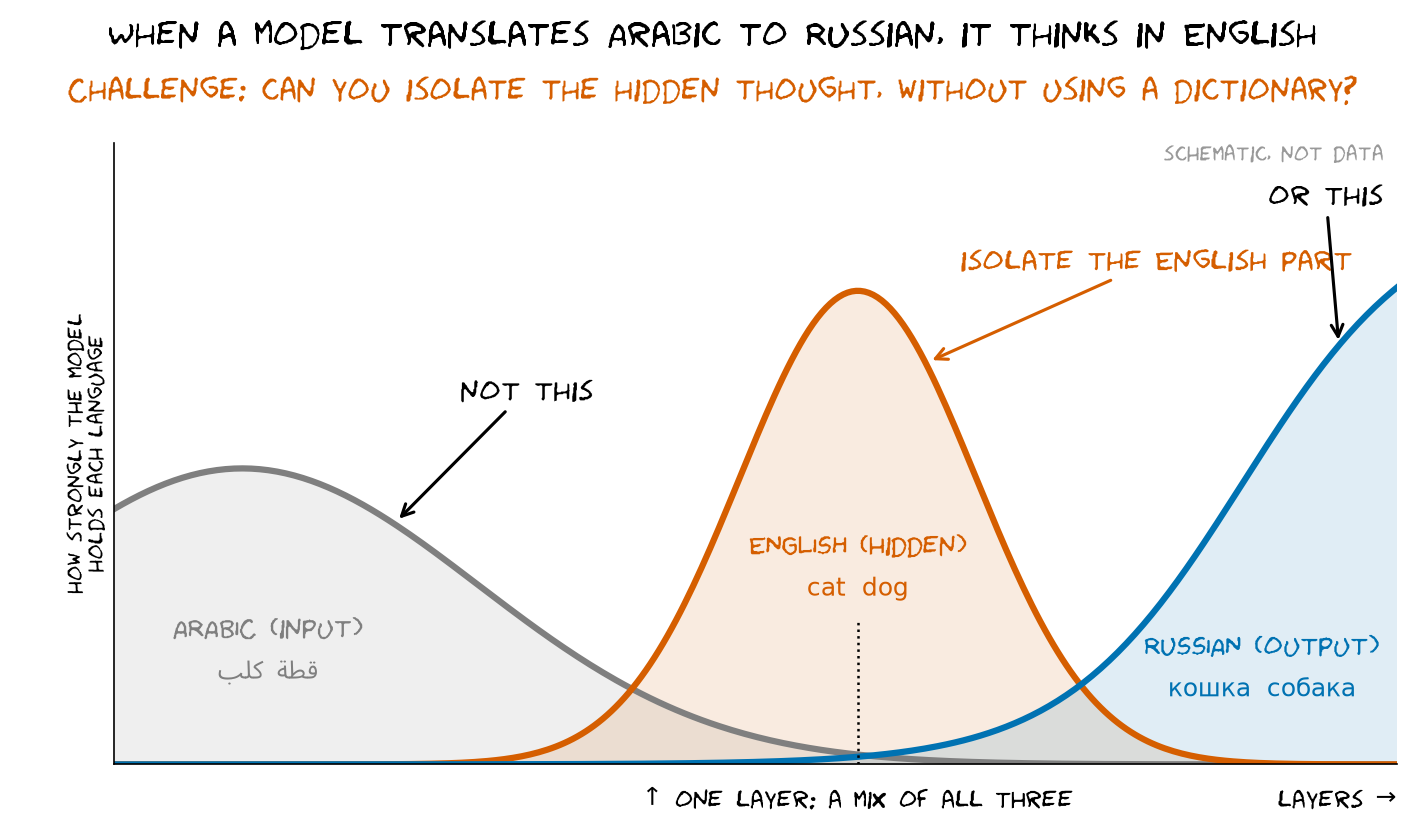
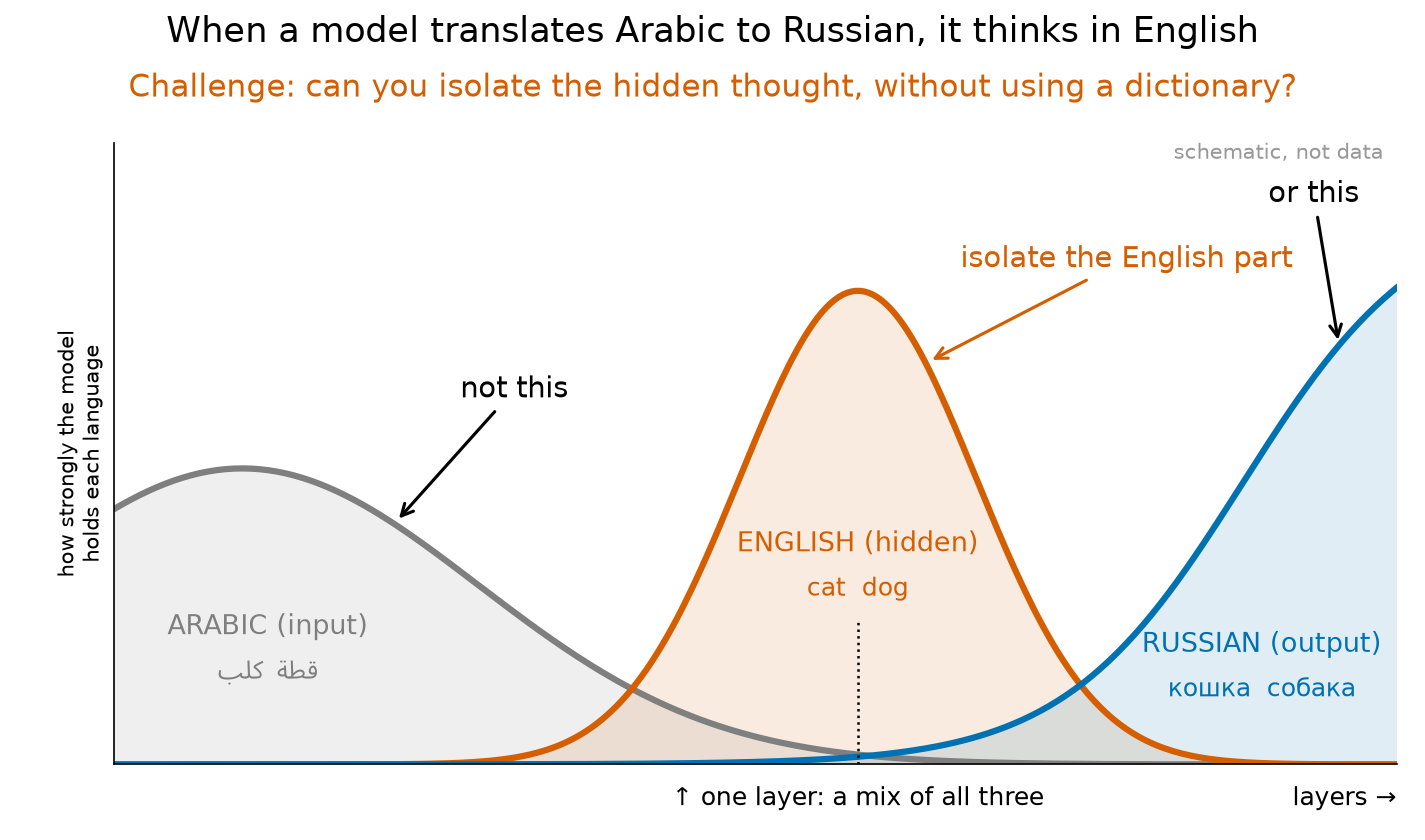
README cut to 2 visible figures (cartoon, scoring); full tables, reference methods, per-layer figure moved to docs/leaderboard.md; Llamas background collapsed; cartoon in a plain font
PI/OpenAI

diff --git a/scripts/challenge/plot_cartoon.py b/scripts/challenge/plot_cartoon.py
@@ -1,6 +1,6 @@
 """Cartoon for the README: input, hidden English and output across layers. Not data. Writes figs/cartoon.png.
 
-Usage: uv run --with matplotlib scripts/challenge/plot_cartoon.py (fonts: Humor Sans, Noto Sans Arabic) — PI/OpenAI
+Usage: uv run --with matplotlib scripts/challenge/plot_cartoon.py (font: Noto Sans Arabic) — PI/OpenAI
 """
 from pathlib import Path
 
@@ -11,7 +11,7 @@ import matplotlib.pyplot as plt
 import numpy as np
 
 ROOT = Path(__file__).resolve().parents[2]
-plt.rcParams["font.family"] = ["Humor Sans", "DejaVu Sans"]  # hand-drawn font; DejaVu for Cyrillic
+plt.rcParams["font.family"] = ["DejaVu Sans"]  # plain font, easy to read
 np.random.seed(0)
 
 GREY, ORANGE, BLUE = "#7f7f7f", "#d55e00", "#0072b2"
@@ -56,4 +56,4 @@ ax.set_ylabel("how strongly the model\nholds each language")
 ax.set(xlim=(0, 1), ylim=(0, 1.05), xticks=[], yticks=[])
 ax.spines[["top", "right"]].set_visible(False)
 (ROOT / "figs").mkdir(exist_ok=True)
-fig.savefig(ROOT / "figs/cartoon.png", dpi=150)  # PNG: the hand-drawn font makes a large SVG
+fig.savefig(ROOT / "figs/cartoon.png", dpi=150)

diff --git a/README.md b/README.md
@@ -14,11 +14,7 @@ There is a delightful finding from the paper ["Do Llamas Work in English?"](http
 
 This is our way in. If a model translating Arabic to Hindi reliably activates English words in its hidden states, we have a target to aim at.
 
-<img width="1448" height="1086" alt="Cartoon titled 'How can we find a model's hidden thoughts?', subtitle 'Models can think in English even when translating from French to Chinese.' A French speaker asks a robot 'Peux-tu traduire ceci en chinois ?'. The robot thinks 'Okay — first I understand it in English.' and says to a Chinese speaker '好的，我来翻译成中文。'. Labels: French (input), Model, Chinese (output). Lower panel: a magnifying glass over the robot's head shows English words (understand, translate, answer). Text: 'Knowing that we are looking for English, we can search for general transforms that isolate it.'" src="https://github.com/user-attachments/assets/73da1994-7dd6-41f4-af6b-166a40f3f115" />
-
-<img width="480" alt="Line plot from Wendler et al. (2024), Figure 2: Llama-2-70B translating into Chinese. x-axis: layer 0 to 80; y-axis: logit-lens probability 0 to 1. The English word (orange) is near zero until layer 40, rises to about 0.4 by layer 50, stays there, then falls to zero by layer 80. The Chinese answer (blue) stays near zero until layer 60 and rises to about 0.5 at layer 80. A colour bar on top shows entropy falling from high to low around layer 45." src="https://arxiv.org/html/2402.10588v4/70b_zh_probas_ent.png" />
-
-*Llama-2-70B translating into Chinese ([Wendler et al. 2024](https://arxiv.org/html/2402.10588v4), Fig. 2): the English word (orange) rises mid-network, then falls as the Chinese answer (blue) rises.*
+<details><summary>Background: the "Do Llamas Work in English?" plot</summary>
 
 I was searching for a way to test whether [Wes Gurnee's](https://x.com/wesg52)
 ["suppression neurons"](https://arxiv.org/abs/2401.12181) can be found in the residual
@@ -26,6 +22,14 @@ stream.
 
 For the test, I tried to isolate the suppressed English from the output language in the
 ["Do Llamas Work in English?"](https://arxiv.org/abs/2402.10588) plot.
+
+<img width="480" alt="Line plot from Wendler et al. (2024), Figure 2: Llama-2-70B translating into Chinese. x-axis: layer 0 to 80; y-axis: logit-lens probability 0 to 1. The English word (orange) is near zero until layer 40, rises to about 0.4 by layer 50, stays there, then falls to zero by layer 80. The Chinese answer (blue) stays near zero until layer 60 and rises to about 0.5 at layer 80. A colour bar on top shows entropy falling from high to low around layer 45." src="https://arxiv.org/html/2402.10588v4/70b_zh_probas_ent.png" />
+
+*Llama-2-70B translating into Chinese ([Wendler et al. 2024](https://arxiv.org/html/2402.10588v4), Fig. 2): the English word (orange) rises mid-network, then falls as the Chinese answer (blue) rises.*
+
+<img width="1448" height="1086" alt="Cartoon titled 'How can we find a model's hidden thoughts?', subtitle 'Models can think in English even when translating from French to Chinese.' A French speaker asks a robot 'Peux-tu traduire ceci en chinois ?'. The robot thinks 'Okay — first I understand it in English.' and says to a Chinese speaker '好的，我来翻译成中文。'. Labels: French (input), Model, Chinese (output). Lower panel: a magnifying glass over the robot's head shows English words (understand, translate, answer). Text: 'Knowing that we are looking for English, we can search for general transforms that isolate it.'" src="https://github.com/user-attachments/assets/73da1994-7dd6-41f4-af6b-166a40f3f115" />
+
+</details>
 
 ## The rule: no cheating
 
@@ -44,73 +48,20 @@ transform best isolates the hidden English.
 | [minus this prompt's early and output states](scripts/challenge/transforms.py#L253)             | **0.92** | 0.89–0.94 | +0.07 (+0.04 to +0.10) |     0.93 |     0.09 |               0.00 | nothing     |
 | [layer-change PCA](scripts/challenge/transforms.py#L164)                                        |     0.91 | 0.88–0.93 | +0.06 (+0.03 to +0.09) | **0.95** |     0.14 |               0.00 | WikiText    |
 | [net-change PCA (AntiPaSTO without the output-head step)](scripts/challenge/transforms.py#L189) |     0.90 | 0.87–0.92 | +0.05 (+0.02 to +0.08) |     0.93 |     0.14 |               0.00 | WikiText    |
-| [layer-change PCs gated by attention](scripts/challenge/transforms.py#L272)                     |     0.89 | 0.86–0.92 | +0.04 (+0.00 to +0.07) |     0.87 |     0.09 |               0.00 | WikiText    |
-| [minus output-layer PCA](scripts/challenge/transforms.py#L199)                                  |     0.87 | 0.84–0.90 | +0.02 (-0.01 to +0.05) |     0.91 |     0.19 |               0.00 | WikiText    |
 | *[identity (logit lens)](scripts/challenge/transforms.py#L139)*                                 |     0.87 | 0.84–0.90 | +0.02 (-0.01 to +0.05) |     0.93 |     0.22 |               0.03 | nothing     |
-| [signed rise-fall coupling](scripts/challenge/transforms.py#L243)                               |     0.85 | 0.82–0.88 | +0.00 (-0.03 to +0.03) |     0.90 |     0.22 |               0.00 | WikiText    |
 | *[random subspace (control)](scripts/challenge/transforms.py#L159)*                             |     0.85 | 0.82–0.88 |                        |     0.89 |     0.21 |               0.00 | random seed |
-| [signed rise-fall coupling, shuffled (control)](scripts/challenge/transforms.py#L248)           |     0.83 | 0.80–0.87 | -0.01 (-0.04 to +0.02) |     0.88 |     0.23 |               0.00 | WikiText    |
-| [MLP write minus next MLP read](scripts/challenge/transforms.py#L169)                           |     0.82 | 0.78–0.86 | -0.02 (-0.07 to +0.02) |     0.73 |     0.05 |               0.00 | nothing     |
-| [layer-change PCs gated by rise and fall](scripts/challenge/transforms.py#L262)                 |     0.80 | 0.75–0.84 | -0.05 (-0.09 to -0.00) |     0.71 |     0.07 |               0.00 | WikiText    |
-| [output-unexplained residual (ridge)](scripts/challenge/transforms.py#L280)                     |     0.79 | 0.74–0.83 | -0.06 (-0.11 to -0.01) |     0.72 |     0.11 |           **0.03** | WikiText    |
-| [added then removed](scripts/challenge/transforms.py#L184)                                      |     0.77 | 0.74–0.81 | -0.08 (-0.11 to -0.04) |     0.85 |     0.36 |               0.00 | WikiText    |
-| [variance gone by the output (PCA)](scripts/challenge/transforms.py#L174)                       |     0.71 | 0.66–0.77 | -0.13 (-0.19 to -0.08) |     0.59 |     0.07 |               0.01 | WikiText    |
-| *[input word (control)](scripts/challenge/transforms.py#L154)*                                  |     0.44 | 0.37–0.50 | -0.41 (-0.48 to -0.35) |     0.38 |     0.34 |               0.00 | nothing     |
-| [variance ratio, layer 27 vs output](scripts/challenge/transforms.py#L305)                      |     0.31 | 0.25–0.37 | -0.54 (-0.60 to -0.48) |     0.27 |     0.46 |               0.00 | WikiText    |
-| *[mean WikiText activation (control)](scripts/challenge/transforms.py#L149)*                    |     0.00 | 0.00–0.00 | -0.85 (-0.88 to -0.82) |     0.00 | **0.00** |               0.00 | WikiText    |
 
-Qwen3.5-4B, 149 test prompts (ar→hi, hi→th, th→ru, ko→ar). Each row's layer and rank were chosen on ru→ko only. 90% CI: bootstrap over prompts. Δ vs random: F1 minus the random subspace on the same prompts. English-only F1: 102 two-hop questions (TwoHopFact). [Per-prompt rows](out/2026-10-05_002148_leaderboard/rows.json.gz).
-
-### Reference: methods that use the output head, token scores or the J-lens
-
-| transform                                                                            |      F1↑ |    90% CI |            Δ vs random |     TPR↑ |     FPR↓ |   English-only F1↑ | fitted on        |
-|:-------------------------------------------------------------------------------------|---------:|----------:|-----------------------:|---------:|---------:|-------------------:|:-----------------|
-| [rise-and-fall, J-lens](scripts/challenge/transforms.py#L226)                        | **0.96** | 0.94–0.98 | +0.11 (+0.08 to +0.14) |     0.93 | **0.01** |               0.05 | J-lens           |
-| [calibrated rise-and-fall](scripts/challenge/transforms.py#L286)                     | **0.96** | 0.94–0.98 | +0.11 (+0.08 to +0.14) |     0.93 | **0.01** |               0.00 | WikiText         |
-| [calibrated rise-and-fall, attention-weighted](scripts/challenge/transforms.py#L299) |     0.95 | 0.93–0.98 | +0.11 (+0.08 to +0.13) |     0.92 | **0.01** |               0.00 | WikiText         |
-| [calibrated rise-and-fall, last line](scripts/challenge/transforms.py#L292)          |     0.94 | 0.91–0.96 | +0.09 (+0.06 to +0.12) |     0.90 |     0.02 |               0.00 | WikiText         |
-| [rise-and-fall token span (rank 32), J-lens](scripts/challenge/transforms.py#L237)   |     0.94 | 0.91–0.96 | +0.09 (+0.06 to +0.12) | **0.93** |     0.06 |               0.06 | J-lens           |
-| [J-lens minus output-layer PCA](scripts/challenge/transforms.py#L204)                |     0.89 | 0.87–0.92 | +0.05 (+0.02 to +0.08) |     0.91 |     0.13 |               0.03 | J-lens, WikiText |
-| [layer-23 attention output, J-lens](scripts/challenge/transforms.py#L318)            |     0.89 | 0.86–0.92 | +0.04 (+0.01 to +0.08) |     0.89 |     0.11 |           **0.09** | J-lens           |
-| [AntiPaSTO suppressed subspace](scripts/challenge/transforms.py#L194)                |     0.87 | 0.84–0.90 | +0.02 (-0.01 to +0.06) |     0.87 |     0.12 |               0.00 | WikiText         |
-| [J-lens](scripts/challenge/transforms.py#L144)                                       |     0.85 | 0.81–0.89 | +0.00 (-0.04 to +0.04) |     0.79 |     0.07 |               0.01 | J-lens           |
-| [rise-and-fall token span (rank 32)](scripts/challenge/transforms.py#L231)           |     0.85 | 0.81–0.88 | +0.00 (-0.04 to +0.04) |     0.82 |     0.11 |               0.00 | nothing          |
-| [logit lens minus read and said](scripts/challenge/transforms.py#L310)               |     0.84 | 0.80–0.88 | -0.01 (-0.05 to +0.03) |     0.86 |     0.19 |               0.00 | nothing          |
-| [rise-and-fall](scripts/challenge/transforms.py#L221)                                |     0.83 | 0.78–0.87 | -0.02 (-0.07 to +0.02) |     0.74 |     0.06 |               0.00 | nothing          |
-| [directions the output head reads least](scripts/challenge/transforms.py#L179)       |     0.50 | 0.44–0.55 | -0.35 (-0.41 to -0.29) |     0.55 |     0.66 |               0.00 | nothing          |
-
-### How it is scored
+Qwen3.5-4B, 149 test prompts (ar→hi, hi→th, th→ru, ko→ar). Each row's layer and rank were chosen on ru→ko only. 90% CI: bootstrap over prompts. Δ vs random: F1 minus the random subspace on the same prompts. English-only F1: 102 two-hop questions (TwoHopFact). [Per-prompt rows](out/2026-10-05_002148_leaderboard/rows.json.gz). [Full table, reference methods and per-layer results](docs/leaderboard.md).
 
 <img src="figs/scoring.svg" width="720" alt="Line plot, Qwen3.5-4B, 59 test prompts, logit-lens probability by layer at the last token. The hidden word (English or Chinese, orange) is near zero until layer 23, peaks at a median of 0.72 at layer 28, then falls to zero by layer 32. The output language (blue) stays low until layer 29 and reaches about 1 at layer 32. The input language (grey) stays near zero. A dashed line at layer 28 says a transform reads here. The orange curve is labelled positive: in the top 8 is TP, missing is FN. The blue and grey curves are labelled negative: in the top 8 is FP, absent is TN.">
 
-The plot shows probabilities from the plain logit lens. Scoring looks only at the top 8 words after the transform:
-the hidden word should be among them, and no input- or output-language word should be.
-
-For each prompt, we take the model's activations, apply the transform to get a score for every token, and keep the top eight words. A transform should ideally catch all the hidden English and none of the input and output language words. If the hidden word (English, or its Chinese translation) is in the top eight, that is a true positive (TP); if we miss it, a false negative (FN). If the method instead shows words from the input language, the output language, or the token the model is about to say, that is a false positive (FP); if it avoids all of those, a true negative (TN). Counting over prompts, F1 = 2TP / (2TP + FP + FN).
-
-Each entry returns a vector in activation space. Only then do we read that vector with the model's output head (the
-logit lens), to check which words it holds. "Identity" reads the activations unchanged, so it is the plain logit
-lens. The reference table lists methods that use the output head, token scores or the
-[J-lens](https://transformer-circuits.pub/2026/workspace/) inside the transform. They show what is possible with
-language-specific tools, but they are not entries.
-
-### Where we are
+For each prompt we keep the transform's top 8 words. The hidden word (orange) should be among them; words from the
+input or output language (grey, blue) should not. F1 combines the two.
+<!-- Short scoring note and the README cut by PI/OpenAI, 2026-10-05; the details moved to docs/leaderboard.md. -->
 
 The best geometry so far is also the simplest: take the layer-28 activation and remove the two directions of the
 same prompt's layer-22 and output activations (F1 0.92, 0.07 above a random subspace on the same prompts). It needs
-no fitting. Removing more of the prompt's own layers (16, 19, 30, 31) did not help on the dev pair. It finds the hidden word as often as the plain logit lens (TPR 0.93), but shows input or output words in
-9% of prompts instead of 22%. Layer-change PCA (0.91) and net-change PCA (0.90) come next.
-
-<img src="figs/layers.png" width="900" alt="Three panels over layers 16 to 31, 149 test prompts: F1 with a 90% band, TPR and FPR, for five geometry transforms. All peak around layers 24 to 29 at F1 about 0.85 to 0.92. Net-change PCA (green) rises earliest, F1 0.61 at layer 20 and about 0.89 from layer 24, and falls least by layer 31. Identity (logit lens) and the random subspace are lower in the middle layers. Minus this prompt's x22 and x32 (orange) starts at layer 23 and peaks at 0.92 at layer 28. FPR rises steeply for all at layers 30 to 31.">
-
-Per layer ([`layer_sweep.py`](scripts/challenge/layer_sweep.py)), net-change PCA is the least sensitive to the choice of
-layer: it already reaches F1 0.61 at layer 20, where the logit lens has 0.33. The orange line starts at layer 23
-because it removes the layer-22 state. By layer 31 every method shows the output language (FPR rises).
-
-Most other geometry does no better than a random subspace of rank 1024, which keeps most of the logit lens (0.85).
-That includes the signed rise-fall coupling, which also scores the same as its shuffled control. The reference rows
-show that more is possible: rise-and-fall on calibrated token scores reaches 0.96. The gap between 0.92 and 0.96 is
-what geometry has not found yet.
+no fitting.
 
 None of the methods work on English-only questions, where the input and output are already English (F1 0.09 at best,
 from a reference row). That is the open problem. If we can solve that, we might have a general way to read what a
@@ -132,9 +83,6 @@ def mine(s, layer, rank):  # s["res"]: residual stream at the last prompt token,
 ```sh
 uv run scripts/challenge/score.py  # downloads the model and data on first run
 ```
-
-To see how your transform does at every layer, add it to `METHODS` in
-[`layer_sweep.py`](scripts/challenge/layer_sweep.py) (it opens as a notebook) and run it.
 
 Rules:
 

diff --git a/docs/leaderboard.md b/docs/leaderboard.md
@@ -1,0 +1,82 @@
+# Leaderboard details
+
+The short version is in the [README](../README.md). Tables from
+[`out/2026-10-05_002148_leaderboard`](../out/2026-10-05_002148_leaderboard/leaderboard.md), made by
+[`score.py`](../scripts/challenge/score.py).
+
+## All geometry entries
+
+| transform                                                                                       |      F1↑ |    90% CI |            Δ vs random |     TPR↑ |     FPR↓ |   English-only F1↑ | fitted on   |
+|:------------------------------------------------------------------------------------------------|---------:|----------:|-----------------------:|---------:|---------:|-------------------:|:------------|
+| [minus this prompt's early and output states](../scripts/challenge/transforms.py#L253)             | **0.92** | 0.89–0.94 | +0.07 (+0.04 to +0.10) |     0.93 |     0.09 |               0.00 | nothing     |
+| [layer-change PCA](../scripts/challenge/transforms.py#L164)                                        |     0.91 | 0.88–0.93 | +0.06 (+0.03 to +0.09) | **0.95** |     0.14 |               0.00 | WikiText    |
+| [net-change PCA (AntiPaSTO without the output-head step)](../scripts/challenge/transforms.py#L189) |     0.90 | 0.87–0.92 | +0.05 (+0.02 to +0.08) |     0.93 |     0.14 |               0.00 | WikiText    |
+| [layer-change PCs gated by attention](../scripts/challenge/transforms.py#L272)                     |     0.89 | 0.86–0.92 | +0.04 (+0.00 to +0.07) |     0.87 |     0.09 |               0.00 | WikiText    |
+| [minus output-layer PCA](../scripts/challenge/transforms.py#L199)                                  |     0.87 | 0.84–0.90 | +0.02 (-0.01 to +0.05) |     0.91 |     0.19 |               0.00 | WikiText    |
+| *[identity (logit lens)](../scripts/challenge/transforms.py#L139)*                                 |     0.87 | 0.84–0.90 | +0.02 (-0.01 to +0.05) |     0.93 |     0.22 |               0.03 | nothing     |
+| [signed rise-fall coupling](../scripts/challenge/transforms.py#L243)                               |     0.85 | 0.82–0.88 | +0.00 (-0.03 to +0.03) |     0.90 |     0.22 |               0.00 | WikiText    |
+| *[random subspace (control)](../scripts/challenge/transforms.py#L159)*                             |     0.85 | 0.82–0.88 |                        |     0.89 |     0.21 |               0.00 | random seed |
+| [signed rise-fall coupling, shuffled (control)](../scripts/challenge/transforms.py#L248)           |     0.83 | 0.80–0.87 | -0.01 (-0.04 to +0.02) |     0.88 |     0.23 |               0.00 | WikiText    |
+| [MLP write minus next MLP read](../scripts/challenge/transforms.py#L169)                           |     0.82 | 0.78–0.86 | -0.02 (-0.07 to +0.02) |     0.73 |     0.05 |               0.00 | nothing     |
+| [layer-change PCs gated by rise and fall](../scripts/challenge/transforms.py#L262)                 |     0.80 | 0.75–0.84 | -0.05 (-0.09 to -0.00) |     0.71 |     0.07 |               0.00 | WikiText    |
+| [output-unexplained residual (ridge)](../scripts/challenge/transforms.py#L280)                     |     0.79 | 0.74–0.83 | -0.06 (-0.11 to -0.01) |     0.72 |     0.11 |           **0.03** | WikiText    |
+| [added then removed](../scripts/challenge/transforms.py#L184)                                      |     0.77 | 0.74–0.81 | -0.08 (-0.11 to -0.04) |     0.85 |     0.36 |               0.00 | WikiText    |
+| [variance gone by the output (PCA)](../scripts/challenge/transforms.py#L174)                       |     0.71 | 0.66–0.77 | -0.13 (-0.19 to -0.08) |     0.59 |     0.07 |               0.01 | WikiText    |
+| *[input word (control)](../scripts/challenge/transforms.py#L154)*                                  |     0.44 | 0.37–0.50 | -0.41 (-0.48 to -0.35) |     0.38 |     0.34 |               0.00 | nothing     |
+| [variance ratio, layer 27 vs output](../scripts/challenge/transforms.py#L305)                      |     0.31 | 0.25–0.37 | -0.54 (-0.60 to -0.48) |     0.27 |     0.46 |               0.00 | WikiText    |
+| *[mean WikiText activation (control)](../scripts/challenge/transforms.py#L149)*                    |     0.00 | 0.00–0.00 | -0.85 (-0.88 to -0.82) |     0.00 | **0.00** |               0.00 | WikiText    |
+
+Qwen3.5-4B, 149 test prompts (ar→hi, hi→th, th→ru, ko→ar). Each row's layer and rank were chosen on ru→ko only. 90% CI: bootstrap over prompts. Δ vs random: F1 minus the random subspace on the same prompts. English-only F1: 102 two-hop questions (TwoHopFact). [Per-prompt rows](../out/2026-10-05_002148_leaderboard/rows.json.gz).
+
+### Reference: methods that use the output head, token scores or the J-lens
+
+| transform                                                                            |      F1↑ |    90% CI |            Δ vs random |     TPR↑ |     FPR↓ |   English-only F1↑ | fitted on        |
+|:-------------------------------------------------------------------------------------|---------:|----------:|-----------------------:|---------:|---------:|-------------------:|:-----------------|
+| [rise-and-fall, J-lens](../scripts/challenge/transforms.py#L226)                        | **0.96** | 0.94–0.98 | +0.11 (+0.08 to +0.14) |     0.93 | **0.01** |               0.05 | J-lens           |
+| [calibrated rise-and-fall](../scripts/challenge/transforms.py#L286)                     | **0.96** | 0.94–0.98 | +0.11 (+0.08 to +0.14) |     0.93 | **0.01** |               0.00 | WikiText         |
+| [calibrated rise-and-fall, attention-weighted](../scripts/challenge/transforms.py#L299) |     0.95 | 0.93–0.98 | +0.11 (+0.08 to +0.13) |     0.92 | **0.01** |               0.00 | WikiText         |
+| [calibrated rise-and-fall, last line](../scripts/challenge/transforms.py#L292)          |     0.94 | 0.91–0.96 | +0.09 (+0.06 to +0.12) |     0.90 |     0.02 |               0.00 | WikiText         |
+| [rise-and-fall token span (rank 32), J-lens](../scripts/challenge/transforms.py#L237)   |     0.94 | 0.91–0.96 | +0.09 (+0.06 to +0.12) | **0.93** |     0.06 |               0.06 | J-lens           |
+| [J-lens minus output-layer PCA](../scripts/challenge/transforms.py#L204)                |     0.89 | 0.87–0.92 | +0.05 (+0.02 to +0.08) |     0.91 |     0.13 |               0.03 | J-lens, WikiText |
+| [layer-23 attention output, J-lens](../scripts/challenge/transforms.py#L318)            |     0.89 | 0.86–0.92 | +0.04 (+0.01 to +0.08) |     0.89 |     0.11 |           **0.09** | J-lens           |
+| [AntiPaSTO suppressed subspace](../scripts/challenge/transforms.py#L194)                |     0.87 | 0.84–0.90 | +0.02 (-0.01 to +0.06) |     0.87 |     0.12 |               0.00 | WikiText         |
+| [J-lens](../scripts/challenge/transforms.py#L144)                                       |     0.85 | 0.81–0.89 | +0.00 (-0.04 to +0.04) |     0.79 |     0.07 |               0.01 | J-lens           |
+| [rise-and-fall token span (rank 32)](../scripts/challenge/transforms.py#L231)           |     0.85 | 0.81–0.88 | +0.00 (-0.04 to +0.04) |     0.82 |     0.11 |               0.00 | nothing          |
+| [logit lens minus read and said](../scripts/challenge/transforms.py#L310)               |     0.84 | 0.80–0.88 | -0.01 (-0.05 to +0.03) |     0.86 |     0.19 |               0.00 | nothing          |
+| [rise-and-fall](../scripts/challenge/transforms.py#L221)                                |     0.83 | 0.78–0.87 | -0.02 (-0.07 to +0.02) |     0.74 |     0.06 |               0.00 | nothing          |
+| [directions the output head reads least](../scripts/challenge/transforms.py#L179)       |     0.50 | 0.44–0.55 | -0.35 (-0.41 to -0.29) |     0.55 |     0.66 |               0.00 | nothing          |
+
+## How it is scored
+
+For each prompt, we take the model's activations, apply the transform to get a score for every token, and keep the top eight words. A transform should ideally catch all the hidden English and none of the input and output language words. If the hidden word (English, or its Chinese translation) is in the top eight, that is a true positive (TP); if we miss it, a false negative (FN). If the method instead shows words from the input language, the output language, or the token the model is about to say, that is a false positive (FP); if it avoids all of those, a true negative (TN). Counting over prompts, F1 = 2TP / (2TP + FP + FN).
+
+Each entry returns a vector in activation space. Only then do we read that vector with the model's output head (the
+logit lens), to check which words it holds. "Identity" reads the activations unchanged, so it is the plain logit
+lens. The reference table lists methods that use the output head, token scores or the
+[J-lens](https://transformer-circuits.pub/2026/workspace/) inside the transform. They show what is possible with
+language-specific tools, but they are not entries.
+
+## Where we are
+
+The best geometry so far is also the simplest: take the layer-28 activation and remove the two directions of the
+same prompt's layer-22 and output activations (F1 0.92, 0.07 above a random subspace on the same prompts). It needs
+no fitting. Removing more of the prompt's own layers (16, 19, 30, 31) did not help on the dev pair. It finds the hidden word as often as the plain logit lens (TPR 0.93), but shows input or output words in
+9% of prompts instead of 22%. Layer-change PCA (0.91) and net-change PCA (0.90) come next.
+
+Most other geometry does no better than a random subspace of rank 1024, which keeps most of the logit lens (0.85).
+That includes the signed rise-fall coupling, which also scores the same as its shuffled control. The reference rows
+show that more is possible: rise-and-fall on calibrated token scores reaches 0.96. The gap between 0.92 and 0.96 is
+what geometry has not found yet.
+
+## Per layer
+
+To see how your transform does at every layer, add it to `METHODS` in
+[`layer_sweep.py`](../scripts/challenge/layer_sweep.py) (it opens as a notebook) and run it.
+
+<img src="../figs/layers.png" width="900" alt="Three panels over layers 16 to 31, 149 test prompts: F1 with a 90% band, TPR and FPR, for five geometry transforms. All peak around layers 24 to 29 at F1 about 0.85 to 0.92. Net-change PCA (green) rises earliest, F1 0.61 at layer 20 and about 0.89 from layer 24, and falls least by layer 31. Identity (logit lens) and the random subspace are lower in the middle layers. Minus this prompt's x22 and x32 (orange) starts at layer 23 and peaks at 0.92 at layer 28. FPR rises steeply for all at layers 30 to 31.">
+
+Per layer ([`layer_sweep.py`](../scripts/challenge/layer_sweep.py)), net-change PCA is the least sensitive to the choice of
+layer: it already reaches F1 0.61 at layer 20, where the logit lens has 0.33. The orange line starts at layer 23
+because it removes the layer-22 state. By layer 31 every method shows the output language (FPR rises).
+
+<!-- Moved from the README by PI/OpenAI, 2026-10-05, when wassname asked for a shorter README. -->
